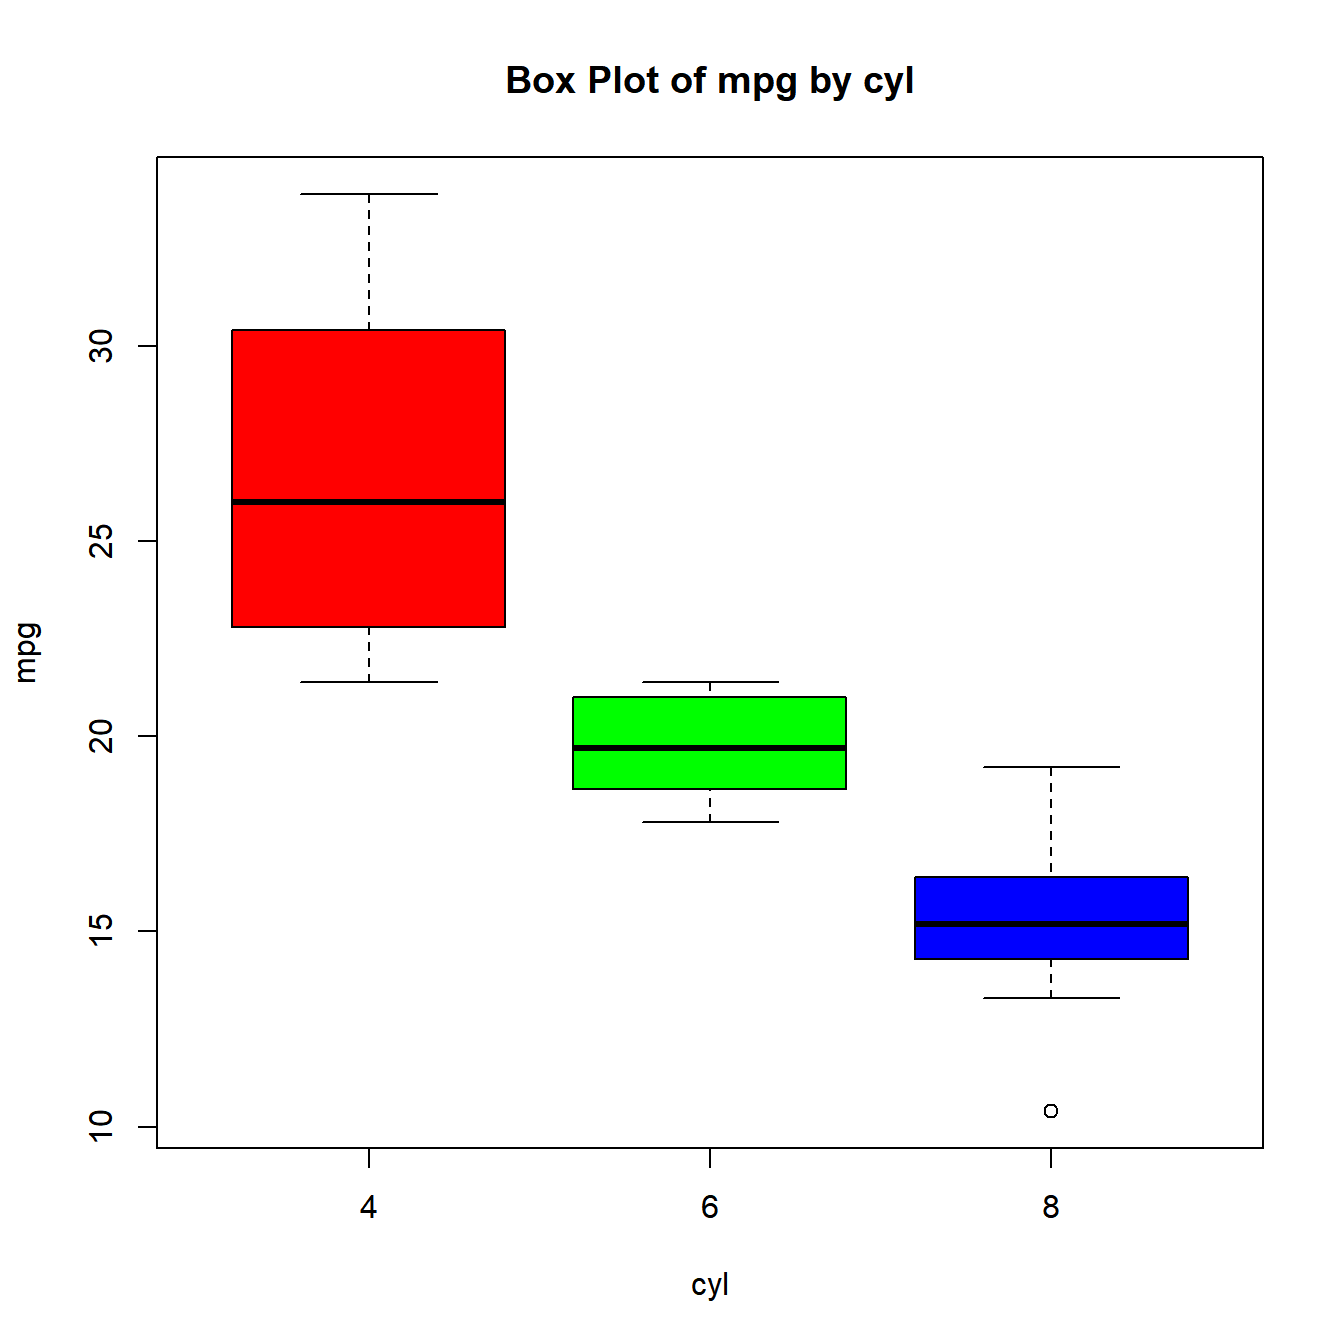
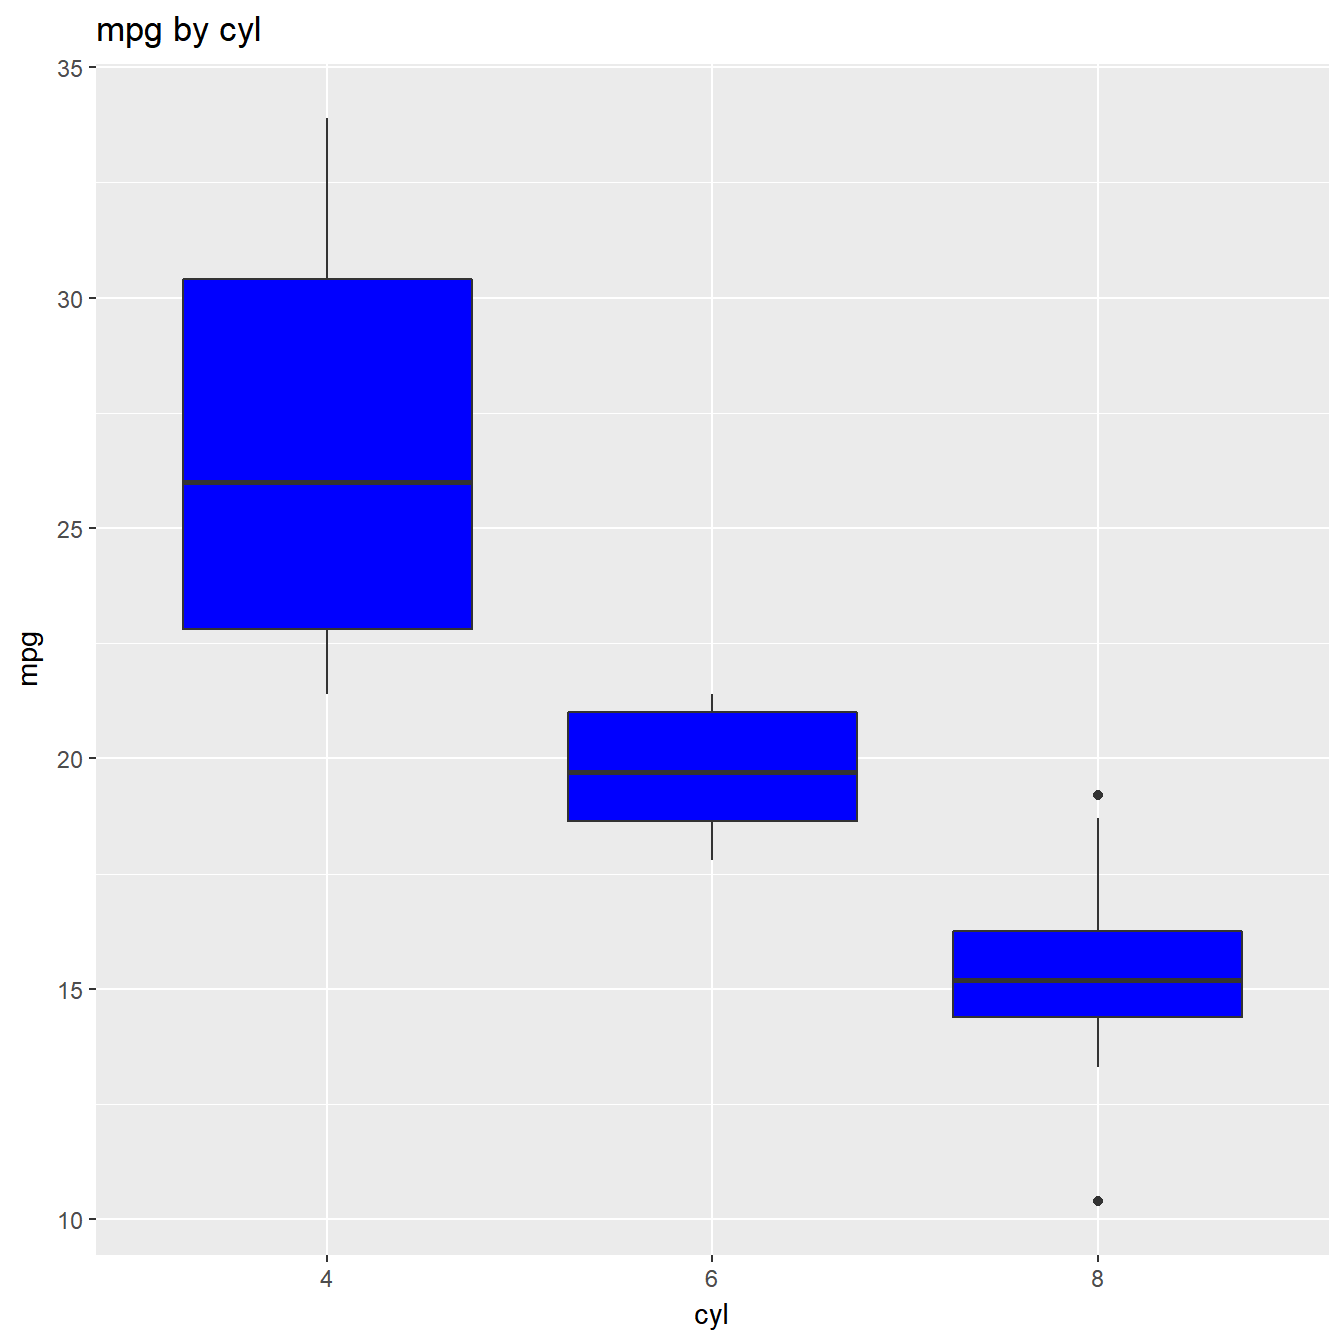
use ggplot2 for group summary box plot

diff --git a/docs/reference/ds_group_summary.html b/docs/reference/ds_group_summary.html
@@ -117,7 +117,7 @@ for the different levels of the categorical variable.</p>
     <pre class="usage"><span class='fu'>ds_group_summary</span>(<span class='no'>data</span>, <span class='no'>gvar</span>, <span class='no'>cvar</span>)
 
 <span class='co'># S3 method for ds_group_summary</span>
-<span class='fu'>boxplot</span>(<span class='no'>x</span>, <span class='no'>...</span>)</pre>
+<span class='fu'>plot</span>(<span class='no'>x</span>, <span class='no'>...</span>)</pre>
     
     <h2 class="hasAnchor" id="arguments"><a class="anchor" href="#arguments"></a> Arguments</h2>
     <table class="ref-arguments">
@@ -191,7 +191,7 @@ use <code>ds_group_summary()</code>.</p>
 #&gt; -----------------------------------------------------------------------------------------</div><div class='input'>
 <span class='co'># boxplot</span>
 <span class='no'>k</span> <span class='kw'>&lt;-</span> <span class='fu'>ds_group_summary</span>(<span class='no'>mtcarz</span>, <span class='no'>cyl</span>, <span class='no'>mpg</span>)
-<span class='fu'>boxplot</span>(<span class='no'>k</span>)</div><div class='img'><img src='ds_group_summary-1.png' alt='' width='700' height='432.632880098887' /></div></pre>
+<span class='fu'>plot</span>(<span class='no'>k</span>)</div><div class='img'><img src='ds_group_summary-1.png' alt='' width='700' height='432.632880098887' /></div></pre>
   </div>
   <div class="col-md-3 hidden-xs hidden-sm" id="sidebar">
     <h2>Contents</h2>

diff --git a/docs/articles/descriptive-stats.html b/docs/articles/descriptive-stats.html
@@ -328,7 +328,7 @@
 <a href="#box-plot" class="anchor"></a>Box Plot</h3>
 <p>A <code>boxplot()</code> method has been defined.</p>
 <div class="sourceCode" id="cb20"><pre class="sourceCode r"><code class="sourceCode r"><a class="sourceLine" id="cb20-1" data-line-number="1">k &lt;-<span class="st"> </span><span class="kw"><a href="../reference/ds_group_summary.html">ds_group_summary</a></span>(mtcarz, cyl, mpg)</a>
-<a class="sourceLine" id="cb20-2" data-line-number="2"><span class="kw">boxplot</span>(k)</a></code></pre></div>
+<a class="sourceLine" id="cb20-2" data-line-number="2"><span class="kw">plot</span>(k)</a></code></pre></div>
 <p><img src="descriptive-stats_files/figure-html/gsum_boxplot-1.png" width="672"></p>
 </div>
 </div>

diff --git a/docs/reference/index.html b/docs/reference/index.html
@@ -180,7 +180,7 @@
         </tr><tr>
           <!--  -->
           <td>
-            <p><code><a href="ds_group_summary.html">ds_group_summary</a></code> <code><a href="ds_group_summary.html">boxplot</a></code> </p>
+            <p><code><a href="ds_group_summary.html">ds_group_summary</a></code> <code><a href="ds_group_summary.html">plot</a></code> </p>
           </td>
           <td><p>Descriptive Statistics By Group</p></td>
         </tr><tr>
